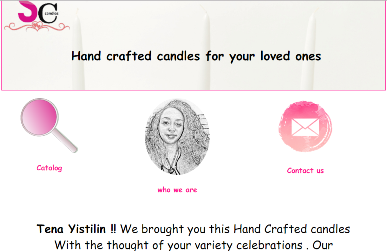
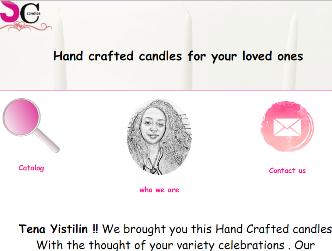
final submission

diff --git a/js/resumeBuilder.js b/js/resumeBuilder.js
@@ -19,22 +19,26 @@ var work = {
             "title": "Center Consultant",
             "location": "Germantown , Maryland",
             "datesWorked": "October 2016",
-            "description": "awfaefas asdgfqfaf sadgfageaf asdgasdgagafgaegadfg adfgag" +
-            "asdfadg asdgasdgaset asdgasdgasdgasdg asdgasdgasgagasg" +
-            "awfaefas asdgfqfaf sadgfageaf asdgasdgagafgaegadfg adfgag" +
-            "awfaefas asdgfqfaf sadgfageaf asdgasdgagafgaegadfg adfgag" +
-            "awfaefas asdgfqfaf sadgfageaf asdgasdgagafgaegadfg adfgag"
+            "description": "consistently delivering a positive customer experience to all customers," +
+            " utilizing consultative skills to anticipate customer needs, suggest alternatives and " +
+            "provide solutions. This is a customer service focused job that requires knowledgeable team member " +
+             " in all areas of the Center’s business, including print, signs & graphics, and shipping"
+        },
+        {
+            "employer": "Panera Bread",
+            "title": "Line Associate",
+            "location": "Germantown , Maryland",
+            "datesWorked": "March 2016 - October 2016",
+            "description": " Satisfying customer needs"
         },
         {
             "employer": "Safeway",
             "title": "Cashier",
             "location": "Germantown, Maryland",
             "datesWorked": "March 2016 - Jun 2016",
-            "description": "awfaefas asdgfqfaf sadgfageaf asdgasdgagafgaegadfg adfgag" +
-            "asdfadg asdgasdgaset asdgasdgasdgasdg asdgasdgasgagasg" +
-            "awfaefas asdgfqfaf sadgfageaf asdgasdgagafgaegadfg adfgag" +
-            "awfaefas asdgfqfaf sadgfageaf asdgasdgagafgaegadfg adfgag" +
-            "awfaefas asdgfqfaf sadgfageaf asdgasdgagafgaegadfg adfgag"
+            "description": "Responsible for taking money in the form of cash," +
+            " check, or credit card from patrons in exchange for food or services."+
+            " Scans items, provides change, balances drawer, and processes card transactions."
         }
 
     ]
@@ -73,14 +77,14 @@ var projects = {
             "datesWorked": "September 2016",
             "description": "Created an online portfolio as part of Udacity's Front-End Web Developer " +
             "Nanodegree.",
-            "images": ["images/portfolio.png"],
+            "images": ["images/portfolio.png" ,"images/port1.png"],
             "url": "http://cherenetse.github.io/"
         },
         {
             "title": "Candle Shop website",
             "datesWorked": "March 2016 - May 2016",
             "description": "Created this Website as a progress for my Front-End development goal",
-            "images": ["images/capture2.png"],
+            "images": ["images/capture2.png","images/capture1.png"],
             "url": "http://sccandles.x10host.com/"
         }
     ]
@@ -90,6 +94,7 @@ var projects = {
 var formattedName = HTMLheaderName.replace("%data%", bio.name);
 var formattedRole = HTMLheaderRole.replace("%data%", bio.role);
 var formattedBioPic = HTMLbioPic.replace("%data%", bio.picture);
+
 
 
 var formattedContactInfo = [];

diff --git a/css/style.css b/css/style.css
@@ -129,7 +129,7 @@ a {
 
 /* TODO: Replace with image later */
 #header {
-  background-color: #484848;
+  background-color: #525c65;
 }
 
 .flex-box {
@@ -157,11 +157,35 @@ ul {
 }
 
 .biopic {
+
+  -webkit-transition: all 0.5s ease;
+     -moz-transition: all 0.5s ease;
+       -o-transition: all 0.5s ease;
+      -ms-transition: all 0.5s ease;
+          transition: all 0.5s ease;
   float: left;
   padding: 10px;
   width: 200px;
   display: none;
+
+}
+  .biopic:hover {
   border-radius: 50%;
+  -webkit-transform: rotate(360deg);
+     -moz-transform: rotate(360deg);
+       -o-transform: rotate(360deg);
+      -ms-transform: rotate(360deg);
+          transform: rotate(360deg);
+
+}
+
+  img:hover{
+        box-shadow:
+                1px 1px #525c65,
+                2px 2px #525c65,
+                3px 3px #525c65;
+        -webkit-transform: translateX(-3px);
+        transform: translateX(-3px);
 }
 
 img {
